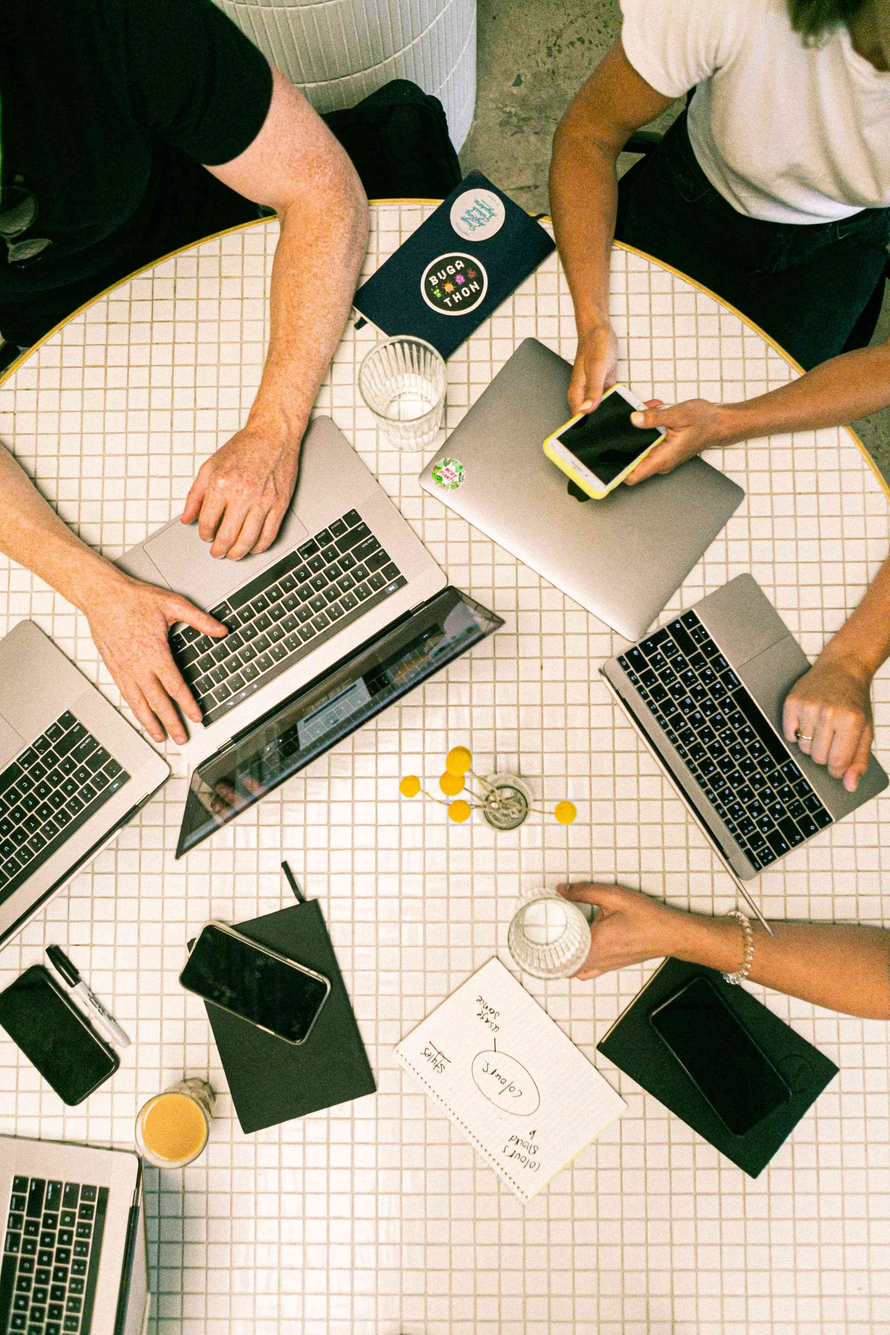
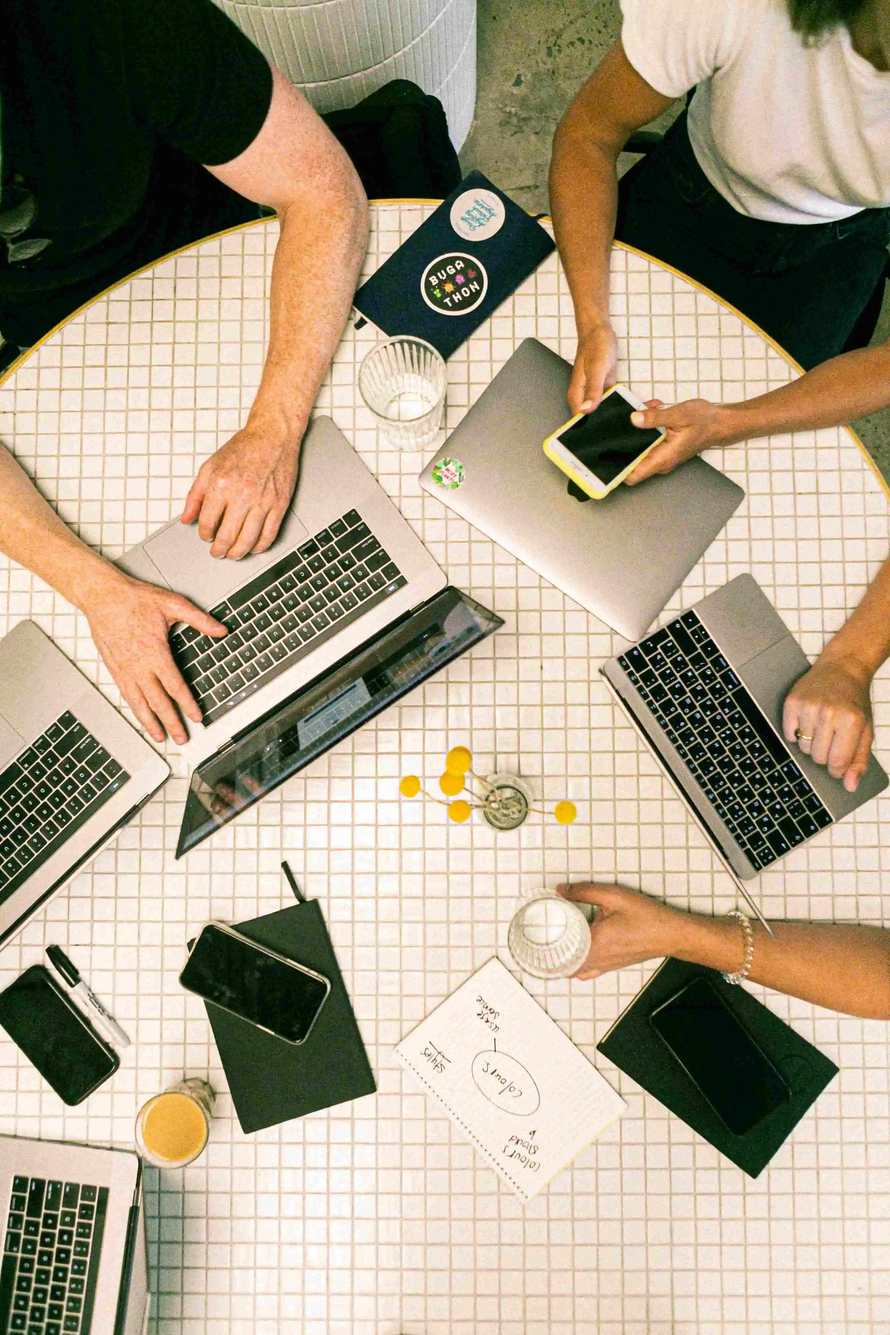
images resized, css js minified

diff --git a/static/styles/app.min.css b/static/styles/app.min.css
@@ -1,0 +1,1 @@
+*{outline:0;box-sizing:border-box;font-family:Roboto,sans-serif}:root{--condilify-logo-size:350px;--condilify-code-line-width:3%;--condilify-code-line-height:5%}body{margin:auto;font-size:18px;max-width:1920px}a{text-decoration:none}.center{text-align:center}.header{background-color:#fff;box-shadow:1px 1px 4px 0 rgba(0,0,0,.1);position:fixed;top:0;width:100%;max-width:1920px;z-index:3;display:flex;justify-content:flex-start;align-items:center;height:60px}.header ul{margin:0;padding:0;list-style:none;overflow:hidden;background-color:#fff;position:absolute;top:61px;width:100%;height:calc(100vh - 61px);text-align:center}.header li a{display:block;padding:20px 20px;border-right:1px solid #f4f4f4}.header li a:any-link{color:#121212}.header .menu-btn:hover,.header li a:hover{background-color:#f4f4f4}.header .brand{display:flex;float:left;justify-content:center;align-items:center}.header .logo{display:block;font-size:2em;padding:0 20px;text-decoration:none;width:12rem;display:flex;align-items:center}.header .logo img{height:100%;width:100%}.header .menu{clear:both;max-height:0;transition:max-height .2s ease-out}.header .menu-icon{cursor:pointer;display:inline-block;padding:28px 20px;position:relative;user-select:none}.header .menu-icon .navicon{background:#333;display:block;height:2px;position:relative;transition:background .2s ease-out;width:18px}.header .menu-icon .navicon:after,.header .menu-icon .navicon:before{background:#333;content:'';display:block;height:100%;position:absolute;transition:all .2s ease-out;width:100%}.header .menu-icon .navicon:before{top:5px}.header .menu-icon .navicon:after{top:-5px}.header .menu-btn{display:none}.header .menu-btn:checked~.menu{max-height:calc(100vh - 61px)}.header .menu-btn:checked~.menu-icon .navicon{background:0 0}.header .menu-btn:checked~.menu-icon .navicon:before{transform:rotate(-45deg)}.header .menu-btn:checked~.menu-icon .navicon:after{transform:rotate(45deg)}.header .menu-btn:checked~.menu-icon:not(.steps) .navicon:after,.header .menu-btn:checked~.menu-icon:not(.steps) .navicon:before{top:0}main{margin-top:61px}.landing{position:relative;height:calc(100vh - 61px);display:flex;justify-content:center;align-items:center;overflow:hidden;max-height:1080px;min-height:720px}.landing::before{content:'';position:absolute;top:0;left:0;width:100%;height:100%;background-image:url(../media/images/arnold-francisca-nPhl2x4fk2s-unsplash.webp);background-size:cover;background-repeat:no-repeat;filter:opacity(.5) blur(3px)}.landing .jumbo-intro{flex:0 1 60%;background:rgb(20 55 106 / 86%);padding:20px 50px;height:100%;display:flex;flex-direction:column;justify-content:center;color:#f4f4f4;z-index:2}ul.ul{list-style:none;line-height:2rem;padding-left:0}ul.ul li{position:relative;padding-left:1.5em}ul.ul li:before{position:absolute;left:0;width:1em;height:1em}ul.ul.tick-list li:before{content:'✓'}ul.ul.diamond-list li:before{content:'◈'}ul.ul.fish-eye-list li:before{content:'◉'}.landing .intro-image{flex:0 1 40%;width:100%;height:100%;position:relative;overflow:hidden;display:flex;justify-content:center;align-items:center}.landing .intro-image .logo-backdrop{position:absolute;top:0;left:0;height:100%;width:100%;background:rgb(134 150 173 / 86%)}.landing .intro-image::before{content:"";position:absolute;height:100%;width:100%;top:0;left:0;background:url(/static/media/images/pexels-canva-studio-3194519.webp);background-position:center;background-size:cover;background-repeat:no-repeat}.landing .intro-image img{position:absolute;min-width:100%;min-height:100%;max-width:200%;max-height:200%;top:-999px;right:-999px;bottom:-999px;left:-999px;margin:auto!important;width:initial}.landing .intro-image img{width:100%}.h1{font-size:clamp(3rem,4vw,4rem)}.h2{font-size:clamp(1.85rem,3vw,3rem)}.h3{font-size:clamp(1.7rem,2.6vw,2.6rem)}.h4{font-size:clamp(1.3rem,2.2vw,2rem)}.h5{font-size:clamp(1.15rem,2vw,1.9rem)}.h6{font-size:clamp(1rem,1.9vw,1.7rem)}.h7{font-size:clamp(.8rem,1.5vw,1.5rem)}.codilyfy-logo *{all:unset}.codilyfy-logo{position:relative;height:var(--condilify-logo-size);width:var(--condilify-logo-size);padding:10px;display:flex;justify-content:center;flex-direction:column;align-items:center}.codilyfy-logo .screen{position:relative;border:calc(var(--condilify-logo-size)/ 35) solid #000;width:75%;height:45%;border-radius:3px 3px 0 0;padding:2% 2% 2% 6%;background-color:#f4f4f4;overflow:hidden}.codilyfy-logo .screen .backdrop{position:absolute;bottom:0;left:0;width:100%;height:100%;background-color:#f4f4f4;display:flex;justify-content:center;align-items:center;overflow:hidden;animation:reveal 5s 3s infinite}.codilyfy-logo .screen .code{display:flex;flex-direction:column;justify-content:space-evenly;position:relative;height:100%;overflow:hidden}.codilyfy-logo .screen .code .code-line{display:flex;height:calc(var(--condilify-logo-size)/ 56)}.codilyfy-logo .screen .code .code-line .seg{background-color:#000;height:100%;border-radius:3px}.codilyfy-logo .screen .code .code-line .seg:hover{background-color:#082765}.codilyfy-logo .screen .code .code-line .seg:not(:first-child){margin-left:5px}.codilyfy-logo .screen .code .code-line.line-1 .seg-1{width:35%}.codilyfy-logo .screen .code .code-line.line-2 .seg-1{width:50%}.codilyfy-logo .screen .code .code-line.line-3 .seg-1{width:20%}.codilyfy-logo .screen .code .code-line.line-3 .seg-2{width:40%}.codilyfy-logo .screen .code .code-line.line-4 .seg-1{width:15%}.codilyfy-logo .screen .code .code-line.line-4 .seg-2{width:30%}.codilyfy-logo .screen .code .code-line.line-4 .seg-3{width:20%}.codilyfy-logo .screen .code .code-line.line-5 .seg-1{width:35%}.codilyfy-logo .screen .code .code-line.line-5 .seg-2{width:45%}.codilyfy-logo .screen .code .code-line.line-6 .seg-1{width:50%}.codilyfy-logo .screen .code .code-line.line-7 .seg-1{width:15%}.codilyfy-logo .screen .code .code-line.line-7 .seg-2{width:30%}.codilyfy-logo .screen .code .code-line.line-7 .seg-3{width:20%}.codilyfy-logo .screen .code .code-line.line-8 .seg-1{width:35%}.codilyfy-logo .screen .code .code-line.line-8 .seg-2{width:45%}.codilyfy-logo .screen .code .code-line.line-9 .seg-1{width:50%}.codilyfy-logo .screen .code .code-line.line-10 .seg-1{width:15%}.codilyfy-logo .screen .code .code-line.line-10 .seg-2{width:30%}.codilyfy-logo .screen .code .code-line.line-10 .seg-3{width:20%}.codilyfy-logo .screen .code .code-line::before{content:"";position:absolute;left:-5%;margin-top:.3%;border-radius:3px;width:var(--condilify-code-line-width);height:var(--condilify-code-line-height);background-color:#000}.codilyfy-logo .keyboard{position:relative;border:calc(var(--condilify-logo-size)/ 40) solid #000;width:100%;height:4%;border-radius:0 0 10px 10px;background-color:#000}.what-we-do-section{padding-top:20px}.what-we-do{display:flex;justify-content:space-evenly}.what-we-do .we-do{flex:1 0 50%;padding:20px 50px}.vision-mission-section{display:flex;padding-top:40px}.vision{background:#e6e6e6}.values-section{display:flex}.flex-equal{flex:1 0 50%}.mission,.vision{padding:20px 50px}.mission{background:rgb(20 55 106 / 86%);color:#f4f4f4}.values{padding:20px 50px}.values-image{display:flex;position:relative;justify-content:center;align-items:center}.values-image::before{content:"";position:absolute;height:100%;width:100%;top:0;left:0;background:url(/static/media/images/krakenimages-Y5bvRlcCx8k-unsplash.webp);background-position:center;background-size:cover;background-repeat:no-repeat;filter:brightness(.2)}.values-image-text{position:relative;font-size:1rem;font-weight:700;padding:50px}.crossword{display:block}.square{margin:0 1px 1px 0;display:inline-block;font:2vw Calibri;width:2vw;height:2vw;line-height:1em;vertical-align:middle;-webkit-touch-callout:none;-webkit-user-select:none;-khtml-user-select:none;-moz-user-select:none;-ms-user-select:none;user-select:none}.letter{background-color:#fff;-webkit-touch-callout:text;-webkit-user-select:text;-khtml-user-select:text;-moz-user-select:text;-ms-user-select:text;user-select:text}.char:focus{-webkit-box-shadow:0 0 0 2px rgba(255,32,32,1);-moz-box-shadow:0 0 0 2px rgba(255,32,32,1);box-shadow:inset 0 0 0 2px rgba(255,32,32,1)}.char{font-size:24px;text-transform:uppercase;outline:0;border:0;padding:0;margin:-1px 0 0 -1px;width:1.35em;height:1.35em;text-align:center;background:0 0}.hide{visibility:hidden}.clueReadOnly{border:0;outline:0;color:#1a1a1a!important;background:0 0}.card{box-shadow:1px 1px 0 rgb(66 66 66 / 8%),0 1px 3px 1px rgb(66 66 66 / 16%);padding:1px 20px 10px 20px;border-radius:3px}@keyframes reveal{0%{height:100%}99%{height:0}100%{height:100%}}@media (max-width:48em){.landing,.values-section,.vision-mission-section,.what-we-do{flex-direction:column}.flex-equal,.landing .jumbo-intro,.what-we-do .we-do{flex:1 1 100%;width:100%}.landing .intro-image{flex:1 1 100%}}@media (min-width:48em){.header{justify-content:space-between}.header li{float:left}.header li a{padding:20px 30px}.header .menu{clear:none;float:right;max-height:none}.header .menu-icon{display:none}.header ul{margin:0;padding:0;list-style:none;overflow:hidden;background-color:#fff;position:relative;top:auto;width:auto;height:59px}}

diff --git a/static/scripts/app.min.js b/static/scripts/app.min.js
@@ -1,0 +1,1 @@
+function Play(){for(var e=document.getElementsByClassName("letter"),r=0;r<e.length;r++)e[r].innerHTML="<input class='char' type='text' maxlength='1'></input>";mode=0,ToggleInputBoxes(!1)}function Create(){if(0===mode)ToggleInputBoxes(!0),document.getElementById("crossword").innerHTML=BoardToHtml(" "),mode=1;else{GetWordsFromInput();for(var e=0,r=!1;e<10&&!r;e++)CleanVars(),r=PopulateBoard();document.getElementById("crossword").innerHTML=r?BoardToHtml(" "):"Failed to find crossword."}}function ToggleInputBoxes(e){for(var r=document.getElementsByClassName("word"),t=document.getElementsByClassName("clue"),a=0;a<r.length;a++)!0===e?(RemoveClass(r[a],"hide"),RemoveClass(t[a],"clueReadOnly"),t[a].disabled=""):(AddClass(r[a],"hide"),AddClass(t[a],"clueReadOnly"),t[a].disabled="readonly")}function GetWordsFromInput(){wordArr=["TRUST","RESPECT","ETHICS","INNOVATION","COMMITMENT"];for(var e,r=0,t=document.getElementsByClassName("word");r<t.length;r++)e=t[r].value.toUpperCase(),null!==e&&e.length>1&&wordArr.push(e)}function CleanVars(){Bounds.Clean(),wordBank=[],wordsActive=[],board=[];for(var e=0;e<32;e++){board.push([]);for(var r=0;r<32;r++)board[e].push(null)}}function PopulateBoard(){PrepareBoard();for(var e=0,r=!0,t=wordBank.length;e<t&&r;e++)r=AddWordToBoard();return r}function PrepareBoard(){wordBank=[];for(var e=0,r=wordArr.length;e<r;e++)wordBank.push(new WordObj(wordArr[e]));for(e=0;e<wordBank.length;e++)for(var t=0,a=wordBank[e];t<a.char.length;t++)for(var o=0,n=a.char[t];o<wordBank.length;o++)for(var s=0,l=wordBank[o];o!==e&&s<l.char.length;s++)a.totalMatches+=n===l.char[s]?1:0}function AddWordToBoard(){var e,r,t,a,o,n,s,l,d=9999;if(wordsActive.length<1){for(t=0,e=0,r=wordBank.length;e<r;e++)wordBank[e].totalMatches<wordBank[t].totalMatches&&(t=e);wordBank[t].successfulMatches=[{x:12,y:12,dir:0}]}else for(t=-1,e=0,r=wordBank.length;e<r;e++){a=wordBank[e],a.effectiveMatches=0,a.successfulMatches=[];for(var c=0,i=a.char.length;c<i;c++){o=a.char[c];for(var h=0,u=wordsActive.length;h<u;h++){n=wordsActive[h];for(var f=0,v=n.char.length;f<v;f++)if(s=n.char[f],o===s){a.effectiveMatches++;var g={x:n.x,y:n.y,dir:0};0===n.dir?(g.dir=1,g.x+=f,g.y-=c):(g.dir=0,g.y+=f,g.x-=c);for(var m=!0,B=-1,w=a.char.length+1;B<w;B++){var p=[];if(B!==c){if(0===g.dir){var b=g.x+B;if(b<0||b>board.length){m=!1;break}p.push(board[b][g.y]),p.push(board[b][g.y+1]),p.push(board[b][g.y-1])}else{var y=g.y+B;if(y<0||y>board[g.x].length){m=!1;break}p.push(board[g.x][y]),p.push(board[g.x+1][y]),p.push(board[g.x-1][y])}if(B>-1&&B<w-1){if(p[0]!==a.char[B]){if(null!==p[0]){m=!1;break}if(null!==p[1]){m=!1;break}if(null!==p[2]){m=!1;break}}}else if(null!==p[0]){m=!1;break}}}!0===m&&a.successfulMatches.push(g)}}}if(l=a.totalMatches-a.effectiveMatches,l<d&&a.successfulMatches.length>0)l=d,t=e;else if(l<=0)return!1}if(-1===t)return!1;var A=wordBank.splice(t,1);wordsActive.push(A[0]);var M=wordsActive.length-1,C=Math.random(),k=wordsActive[M].successfulMatches,T=Math.floor(C*k.length),E=k[T];for(wordsActive[M].x=E.x,wordsActive[M].y=E.y,wordsActive[M].dir=E.dir,e=0,r=wordsActive[M].char.length;e<r;e++){b=E.x,y=E.y;0===E.dir?(b+=e,board[b][y]=wordsActive[M].char[e]):(y+=e,board[b][y]=wordsActive[M].char[e]),Bounds.Update(b,y)}return!0}function BoardToHtml(e){for(var r=Bounds.top-1,t="";r<Bounds.bottom+2;r++){t+="<div class='row'>";for(var a=Bounds.left-1;a<Bounds.right+2;a++)t+=BoardCharToElement(board[a][r]);t+="</div>"}return t}function BoardCharToElement(e){var r=e?["square","letter"]:["square"];return EleStr("div",[{a:"class",v:r}],e)}function WordObj(e){this.string=e,this.char=e.split(""),this.totalMatches=0,this.effectiveMatches=0,this.successfulMatches=[]}function RegisterEvents(){document.getElementById("crossword").onfocus=function(){return!1};try{document.getElementById("btnCreate").addEventListener("click",Create,!1),document.getElementById("btnPlay").addEventListener("click",Play,!1)}catch(e){}}function EleStr(e,r,t){t=t||"";for(var a=0,o="<"+e+" ";a<r.length;a++)o+=r[a].a+"='"+ArrayToString(r[a].v," ")+"' ";return o+">"+t+"</"+e+">"}function ArrayToString(e,r){if(null===e||e.length<1)return"";null===r&&(r=",");for(var t=e[0],a=1;a<e.length;a++)t+=r+e[a];return t}function AddClass(e,r){e.className=e.className.replaceAll(" "+r,"")+" "+r}function RemoveClass(e,r){e.className=e.className.replaceAll(" "+r,"")}function ToggleClass(e,r){var t=e.className.replaceAll(" "+r,"");e.className=t.length===e.className.length?t+" "+r:t}var board,wordArr,wordBank,wordsActive,mode,Bounds={top:0,right:0,bottom:0,left:0,Update:function(e,r){this.top=Math.min(r,this.top),this.right=Math.max(e,this.right),this.bottom=Math.max(r,this.bottom),this.left=Math.min(e,this.left)},Clean:function(){this.top=999,this.right=0,this.bottom=0,this.left=999}};RegisterEvents(),String.prototype.replaceAll=function(e,r){var t=new RegExp(e,"g");return this.replace(t,r)},Create(),setInterval(()=>{Create()},5e3);

diff --git a/index.html b/index.html
@@ -26,7 +26,7 @@
     <link rel="preconnect" href="https://fonts.gstatic.com" crossorigin>
     <link href="https://fonts.googleapis.com/css2?family=Noto+Sans&family=Poppins&family=Roboto&display=swap"
         rel="stylesheet">
-    <link rel="stylesheet" href="./static/styles/app.css">
+    <link rel="stylesheet" href="./static/styles/app.min.css">
 </head>
 
 <body>
@@ -35,7 +35,7 @@
         <label class="menu-icon" for="menu-btn"><span class="navicon"></span></label>
         <div class="brand">
             <a href="/" class="logo">
-                <img src="./static/media/images/Codilify-1.gif" alt="codilify-logo">
+                <img src="./static/media/images/Codilify-1-small.gif" alt="codilify-logo">
             </a>
         </div>
         <ul class="menu">
@@ -241,7 +241,7 @@
         </section>
     </main>
     <footer></footer>
-    <script src="/static/scripts/app.js"></script>
+    <script src="/static/scripts/app.min.js"></script>
 </body>
 
 </html>
